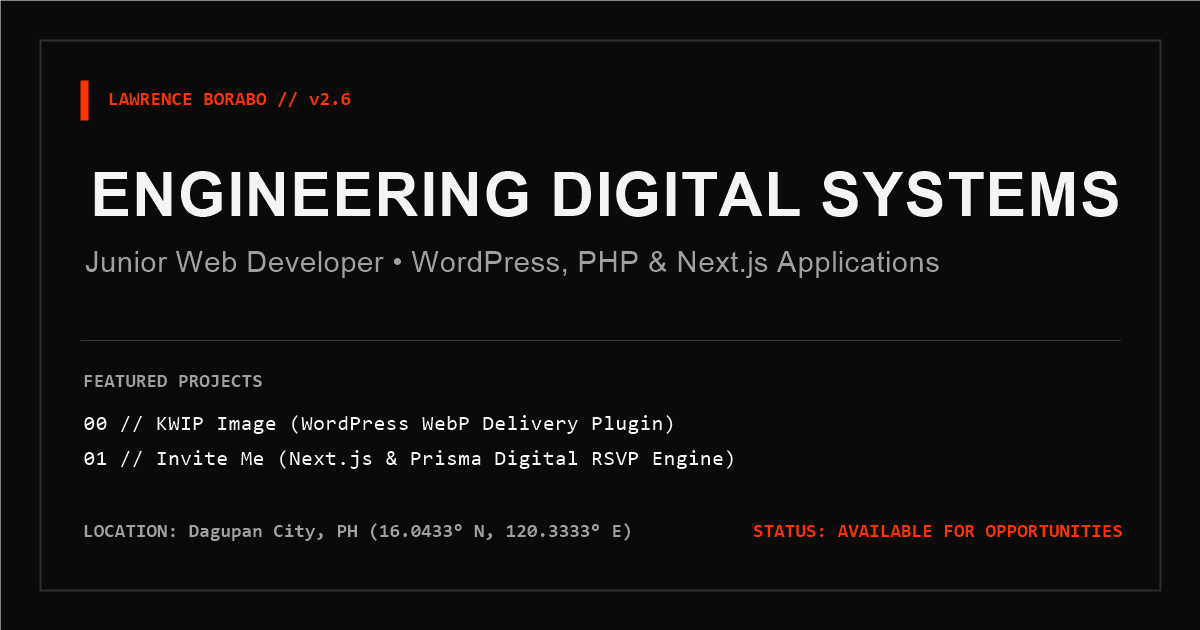
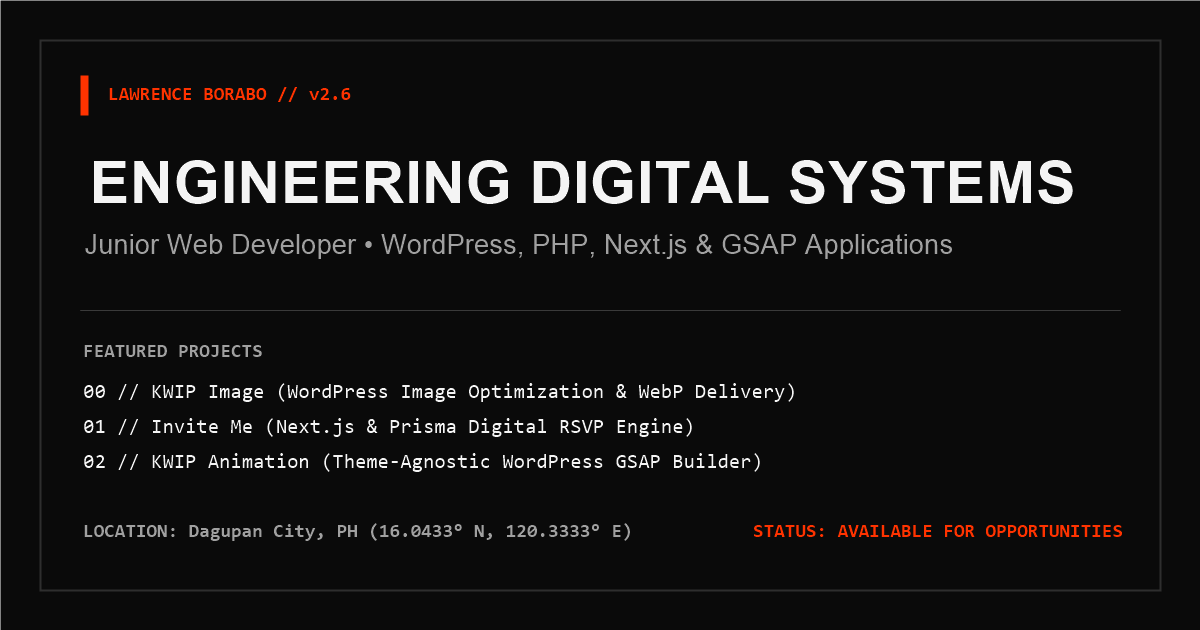
Added Project

diff --git a/src/components/ProjectShowcase.jsx b/src/components/ProjectShowcase.jsx
@@ -3,10 +3,11 @@ import SplitText from './common/SplitText'
 import { projectsData } from '../data/portfolioData'
 
 export default function ProjectShowcase() {
-  const [projectA, projectB] = projectsData
+  const [projectA, projectB, projectC] = projectsData
 
   return (
     <>
+      {/* PROJECT A: KWIP IMAGE */}
       {projectA && (
         <section id="work" className="project-showcase dark-block panel" data-color={projectA.theme}>
           <div className="project-header">
@@ -154,6 +155,94 @@ export default function ProjectShowcase() {
                 </ul>
               )}
             </div>
+          </div>
+        </section>
+      )}
+
+      {/* PROJECT C: KWIP ANIMATION */}
+      {projectC && (
+        <section id="kwip-animation" className="project-showcase dark-block panel" data-color={projectC.theme}>
+          <div className="project-header">
+            <span className="mono-label accent-text reveal-fade">{projectC.caseStudyTag}</span>
+            <h2 className="display-title auto-split">
+              <SplitText text={projectC.title} />
+            </h2>
+            {projectC.repoUrl && (
+              <div className="github-link-wrapper reveal-fade">
+                <a
+                  href={projectC.repoUrl}
+                  target="_blank"
+                  rel="noopener noreferrer"
+                  className="tech-link magnetic-link"
+                >
+                  VIEW REPOSITORY ↗
+                </a>
+              </div>
+            )}
+          </div>
+
+          <div className="project-grid">
+            <div className="project-context">
+              <h3 className="section-title auto-split">
+                <SplitText text="The Problem & Solution" />
+              </h3>
+              <p className="reveal-fade">{projectC.description}</p>
+
+              {projectC.metrics && (
+                <div className="performance-metrics reveal-scale">
+                  <h4 className="mono-label">PERFORMANCE BENCHMARK</h4>
+                  {projectC.metrics.map((metric, idx) => (
+                    <div className="metric-row" key={idx}>
+                      <span className={metric.accent ? 'accent-text' : ''}>{metric.label}</span>
+                      <span className="bar-bg">
+                        <span
+                          className={`bar-fill anim-bar ${metric.accent ? 'accent-bg' : ''}`}
+                          data-width={metric.width}
+                        >
+                          {metric.value}
+                        </span>
+                      </span>
+                    </div>
+                  ))}
+                </div>
+              )}
+            </div>
+
+            {projectC.architecture && (
+              <div className="project-architecture">
+                <h3 className="section-title auto-split">
+                  <SplitText text={projectC.architecture.title} />
+                </h3>
+                <div className="arch-diagram">
+                  {projectC.architecture.nodes.map((node, idx) => {
+                    if (node.type === 'connector') {
+                      return (
+                        <div key={idx} className="connector draw-line">
+                          {node.symbol}
+                        </div>
+                      )
+                    }
+                    if (node.type === 'split') {
+                      return (
+                        <div key={idx} className="node split draw-node">
+                          {node.items.map((item, itemIdx) => (
+                            <div key={itemIdx}>{item}</div>
+                          ))}
+                        </div>
+                      )
+                    }
+                    return (
+                      <div
+                        key={idx}
+                        className={`node draw-node ${node.highlight ? 'highlight' : ''}`}
+                      >
+                        {node.label}
+                      </div>
+                    )
+                  })}
+                </div>
+              </div>
+            )}
           </div>
         </section>
       )}

diff --git a/src/data/portfolioData.js b/src/data/portfolioData.js
@@ -89,6 +89,45 @@ export const projectsData = [
       ],
     },
   },
+  {
+    id: 'kwip-animation',
+    caseStudyTag: 'Project 02',
+    title: 'KWIP Animation',
+    theme: 'dark',
+    repoUrl: 'https://github.com/borabolawrence/KWIP-Animation',
+    tagline: 'Visual Point-and-Click GSAP Animation Builder for WordPress',
+    description:
+      'Complex scroll animations often require heavy custom scripting or bloat page performance through bulky visual builders. KWIP Animation is an independently developed, theme-agnostic WordPress plugin featuring a React-powered visual iframe inspector. It allows creators to visually point, click, and bind GSAP animations to any DOM element, while loading zero builder code on the public frontend for peak Core Web Vitals.',
+    metrics: [
+      {
+        label: 'Public Frontend Overhead',
+        value: '< 4 KB',
+        width: '15%',
+        accent: true,
+      },
+      {
+        label: 'Visual Builder Bloat',
+        value: '0 KB (Admin Only)',
+        width: '100%',
+        accent: false,
+      },
+    ],
+    architecture: {
+      title: 'Decoupled Motion Pipeline',
+      nodes: [
+        { type: 'single', label: 'WP Admin (React Inspector)' },
+        { type: 'connector', symbol: '↓' },
+        {
+          type: 'split',
+          items: ['Iframe Bridge (postMessage)', 'Config REST API'],
+        },
+        { type: 'connector', symbol: '↓' },
+        { type: 'single', label: 'Post Meta JSON Storage' },
+        { type: 'connector', symbol: '↓' },
+        { type: 'single', label: 'Zero-Bloat Public Runtime', highlight: true },
+      ],
+    },
+  },
 ]
 
 export const experienceData = [

diff --git a/src/components/RepoIndex.jsx b/src/components/RepoIndex.jsx
@@ -1,4 +1,4 @@
-import { useState, useEffect, useRef } from 'react'
+import { useState, useEffect, useRef, useCallback } from 'react'
 import SplitText from './common/SplitText'
 import { personalData } from '../data/portfolioData'
 
@@ -8,7 +8,7 @@ export default function RepoIndex({ onReposLoaded }) {
   const [error, setError] = useState(false)
   const sectionRef = useRef(null)
 
-  const fetchRepos = async () => {
+  const fetchRepos = useCallback(async () => {
     setLoading(true)
     setError(false)
     const controller = new AbortController()
@@ -34,7 +34,7 @@ export default function RepoIndex({ onReposLoaded }) {
     } finally {
       setLoading(false)
     }
-  }
+  }, [onReposLoaded])
 
   useEffect(() => {
     if (!sectionRef.current) return
@@ -52,9 +52,11 @@ export default function RepoIndex({ onReposLoaded }) {
       observer.observe(sectionRef.current)
       return () => observer.disconnect()
     } else {
-      fetchRepos()
+      queueMicrotask(() => {
+        fetchRepos()
+      })
     }
-  }, [])
+  }, [fetchRepos])
 
   return (
     <section id="index" ref={sectionRef} className="github-index panel" data-color="light">

diff --git a/index.html b/index.html
@@ -15,7 +15,7 @@
   <meta name="author" content="Lawrence Borabo" />
   <meta name="robots" content="index, follow, max-image-preview:large, max-snippet:-1, max-video-preview:-1" />
   <meta name="googlebot" content="index, follow" />
-  <link rel="canonical" href="%VITE_SITE_URL%/" />
+  <link rel="canonical" href="%PUBLIC_SITE_URL%/" />
 
   <!-- Theme Colors -->
   <meta name="theme-color" content="#F4F4F4" media="(prefers-color-scheme: light)" />

diff --git a/src/components/Navbar.jsx b/src/components/Navbar.jsx
@@ -1,6 +1,5 @@
 import { useState, useEffect } from 'react'
 import { personalData } from '../data/portfolioData'
-import lmbIcon from '../assets/lmb.png'
 
 export default function Navbar({ onReplayIntro }) {
   const [mobileMenuOpen, setMobileMenuOpen] = useState(false)
